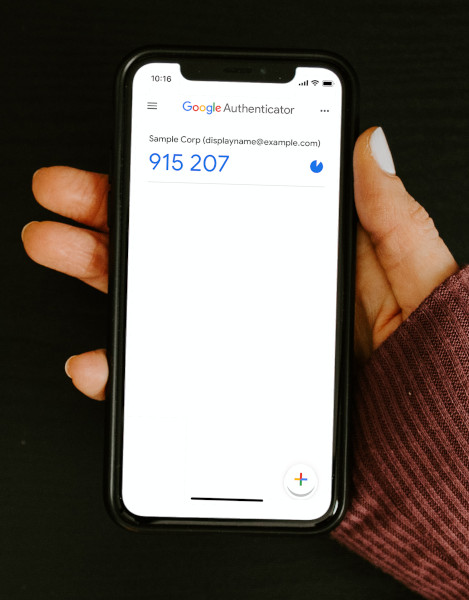
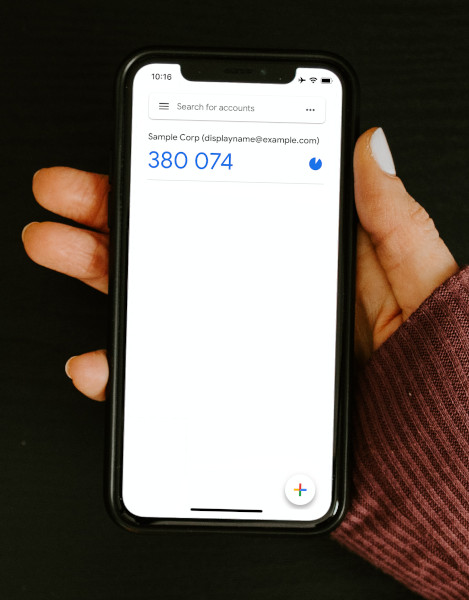
Update demo image and passcode with latest authenticator version

diff --git a/index.html b/index.html
@@ -73,7 +73,7 @@
             <div class="code-demo">
               <pre class="code-example"> <code>curl -X 'POST' \
   -H 'Authorization: Bearer tIz50saQwW7s...' \
-  -d <span class="code-param">'{"passcode": "915207"}'</span> \
+  -d <span class="code-param">'{"passcode": "380074"}'</span> \
   <span class="code-url"><a href="https://api.ownmfa.com">https://api.ownmfa.com/</a></span>v1/applications/.../identities/.../verify</code></pre>
             </div>
 
